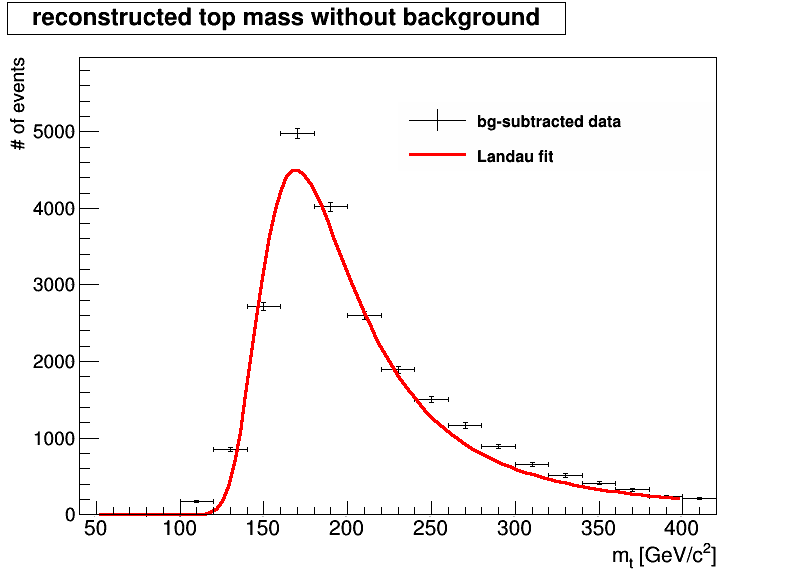
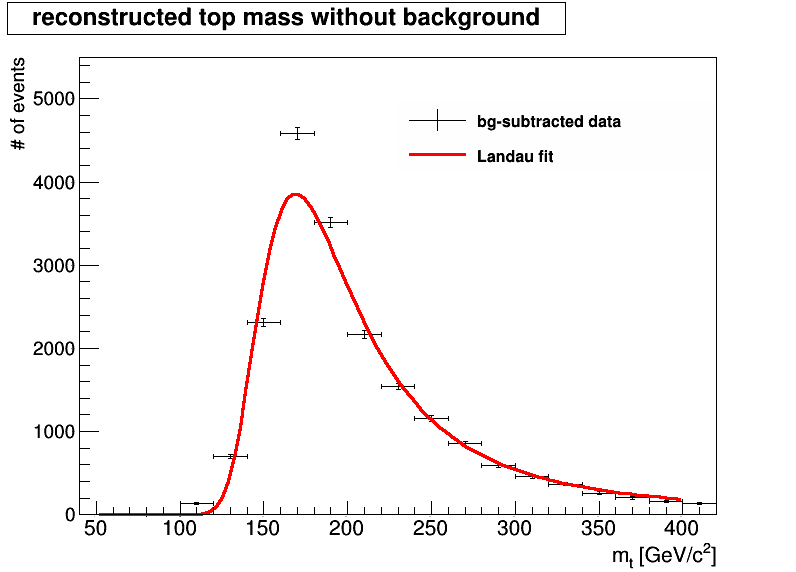
fix

diff --git a/blatt_7/ttbar_exercise/plotHistos.C b/blatt_7/ttbar_exercise/plotHistos.C
@@ -518,6 +518,8 @@ plotHistos(int Mode)
     fMData2->SetParameters(1000,173,30);
 
     Double_t sigFracB = 0.808144;
+    Double_t scale = hMData2->Integral()/hMWJets2->Integral();
+    hMWJets2->Scale(scale);
     hMWJets2->Scale(1-sigFracB);
     hMData2->Add(hMWJets2,-1);
     //
@@ -530,7 +532,7 @@ plotHistos(int Mode)
     cout << endl;
 
     cout << "fit MC_TTBar without background" << endl;
-    hMData2->Fit("fMData2","N");
+    hMData2->Fit("fMData2","NR");
 
     hMData2->SetLineColor(1);
     fMData2->SetLineColor(2);
